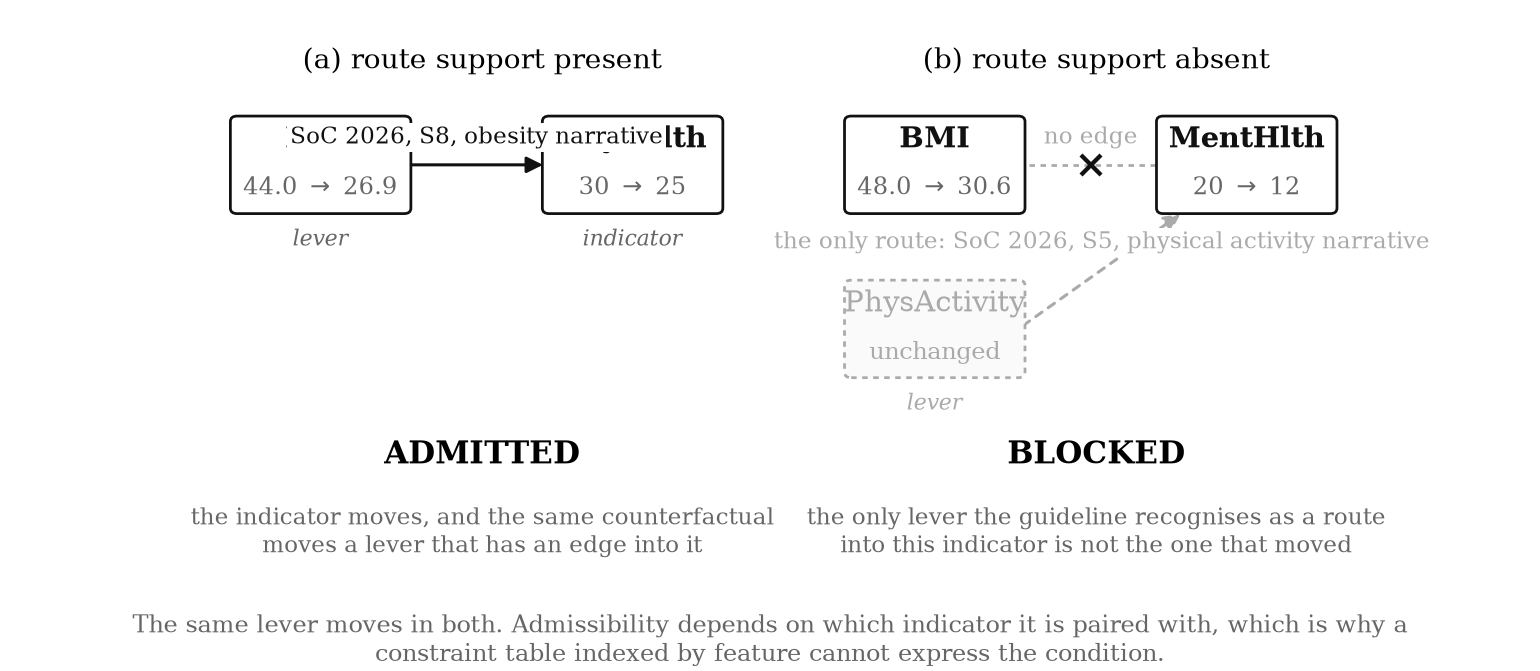
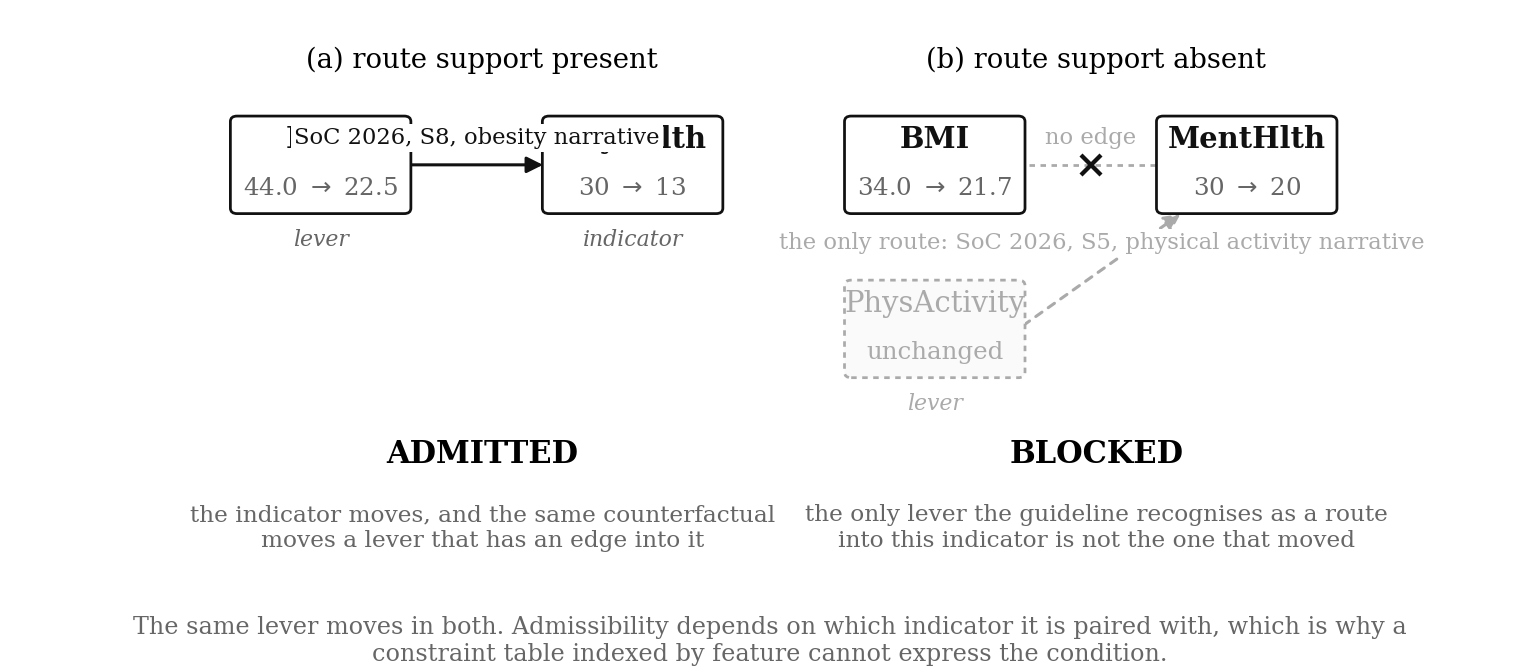
change figure 1

diff --git a/analysis/make_fig2_route.py b/analysis/make_fig2_route.py
@@ -7,8 +7,8 @@ Two counterfactuals from the reference run, both moving BMI, both moving a
 self-reported indicator, one admissible and one not. Drawn from
 outputs/raw_cf_changes.csv:
 
-    patient 8, cf 0    BMI 44 -> 26.9   PhysHlth 30 -> 25    admitted
-    patient 3, cf 4    BMI 48 -> 30.6   MentHlth 20 -> 12    blocked
+    patient 8, cf 0    BMI 44 -> 22.5   PhysHlth 30 -> 13    admitted
+    patient 1, cf 0    BMI 34 -> 21.7   MentHlth 30 -> 20    blocked
 
 The edge facts are READ FROM depgraph.edges rather than written into this file,
 so that a change to the edge set cannot leave the figure quietly wrong. If the
@@ -97,8 +97,8 @@ YV = 0.10                        # verdict, identical in both panels
 
 # ---------------------------------------------------------------- admitted
 ax = axes[0]
-box(ax, (0.06, YTOP), W, H, "BMI", "44.0 $\\rightarrow$ 26.9", "lever")
-box(ax, (0.62, YTOP), W, H, "PhysHlth", "30 $\\rightarrow$ 25", "indicator")
+box(ax, (0.06, YTOP), W, H, "BMI", "44.0 $\\rightarrow$ 22.5", "lever")
+box(ax, (0.62, YTOP), W, H, "PhysHlth", "30 $\\rightarrow$ 13", "indicator")
 arrow(ax, (0.36, YTOP + H / 2), (0.62, YTOP + H / 2),
       f"{SRC_A}")
 ax.text(0.5, YV, "ADMITTED", ha="center", fontsize=10, fontweight="bold")
@@ -110,8 +110,8 @@ ax.set_title("(a) route support present", fontsize=9, pad=4)
 
 # ----------------------------------------------------------------- blocked
 ax = axes[1]
-box(ax, (0.06, YTOP), W, H, "BMI", "48.0 $\\rightarrow$ 30.6", "lever")
-box(ax, (0.62, YTOP), W, H, "MentHlth", "20 $\\rightarrow$ 12", "indicator")
+box(ax, (0.06, YTOP), W, H, "BMI", "34.0 $\\rightarrow$ 21.7", "lever")
+box(ax, (0.62, YTOP), W, H, "MentHlth", "30 $\\rightarrow$ 20", "indicator")
 ym = YTOP + H / 2
 ax.plot([0.36, 0.62], [ym, ym], lw=0.9, ls=(0, (2, 2)), color=GHOST, zorder=2)
 ax.text(0.49, ym + 0.035, "no edge", ha="center", va="bottom", fontsize=7.4,
